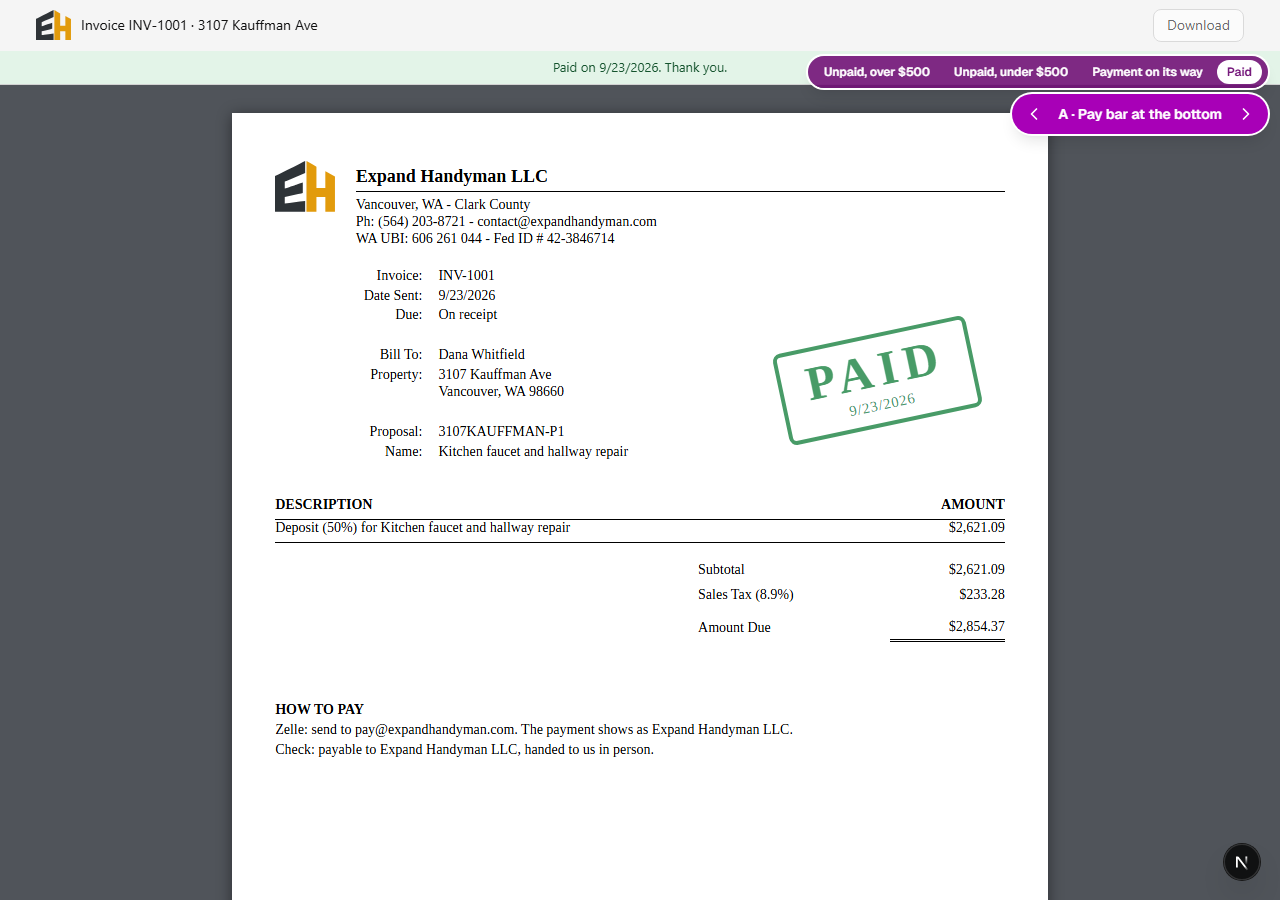
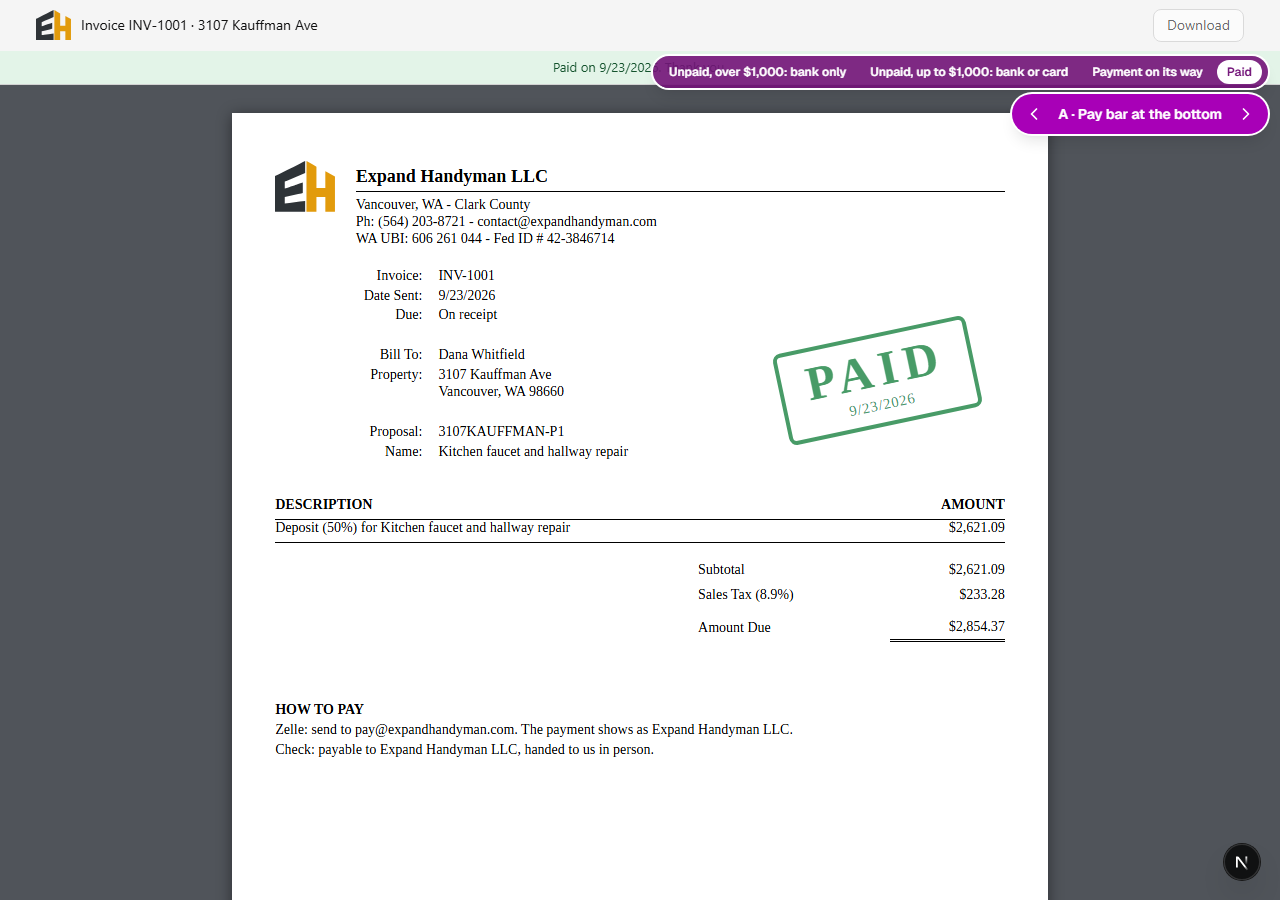
Drop the card fee from the Pay now sketches; card only up to $1,000 (#112)
The owner dropped the fee after the research (#111) while this was being
built: bank is always offered, card only when Amount Due is $1,000 or less,
no fee on either. The deposit invoice ($2,854.37) now shows bank only, with
one sentence saying why; the gutter invoice ($800.42) shows both ways. The
stand-in checkout loses its fee line.

Changed region(s): [[0.5, 0.0622, 0.8438, 0.1244]]

diff --git a/components/prototype-pay-now/link-prototype.tsx b/components/prototype-pay-now/link-prototype.tsx
@@ -178,17 +178,13 @@ function onItsWay(amount: string): string {
   return `Your bank payment of ${amount} is on its way. Banks take up to 4 business days to confirm it, and this invoice will read Paid once they do.`;
 }
 
-function feeSentence(choices: PayChoice[]): string {
-  const card = choices[1];
-  return card.feeCents > 0
-    ? `Card adds a 3% fee, ${formatCentsExact(card.feeCents)}, on invoices over $500. Bank, Zelle and check are free.`
-    : "No fee either way under $500. Zelle and check work too.";
-}
-
-const OtherWays = "Zelle and check work too: see How to pay on the invoice.";
-
-function cardLabel(card: PayChoice): string {
-  return card.feeCents > 0 ? `Pay by card, ${formatCentsExact(card.chargeCents)}` : "Pay by card";
+// The line beside the choices: no fee when both are offered, and why there
+// is no card button when there is not. Whether the link should explain the
+// missing button at all is for the owner to say.
+function waysSentence(choices: PayChoice[]): string {
+  return choices.length === 2
+    ? "No fee either way. Zelle and check work too: see How to pay on the invoice."
+    : "Invoices over $1,000 are paid by bank, or by Zelle or check as How to pay says on the invoice.";
 }
 
 // ── A: the pay bar ───────────────────────────────────────────────────────
@@ -218,15 +214,17 @@ function PayBar({
     );
   return (
     <div className="paper-bar">
-      <p className="paper-bar-note">{feeSentence(choices)}</p>
+      <p className="paper-bar-note">{waysSentence(choices)}</p>
       <div className="paper-bar-row">
         <span className="paper-bar-sum">
           <strong>{amount}</strong> · due on receipt
         </span>
         <span className="paper-grow" />
-        <button type="button" className="paper-btn paper-btn-quiet" onClick={() => onPay(card)}>
-          {cardLabel(card)}
-        </button>
+        {card ? (
+          <button type="button" className="paper-btn paper-btn-quiet" onClick={() => onPay(card)}>
+            Pay by card
+          </button>
+        ) : null}
         <button type="button" className="paper-btn paper-btn-primary" onClick={() => onPay(bank)}>
           Pay by bank
         </button>
@@ -258,7 +256,7 @@ function PayCard({
     <section className="pn-card">
       <h2 className="pn-card-title">Pay {amount} online</h2>
       <ChoiceRows choices={choices} onPay={onPay} />
-      <p className="pn-card-text">{OtherWays}</p>
+      <p className="pn-card-text">{waysSentence(choices)}</p>
     </section>
   );
 }
@@ -288,7 +286,7 @@ function PaySheet({
             </button>
           </div>
           <ChoiceRows choices={choices} onPay={onPay} />
-          <p className="pn-card-text">{OtherWays}</p>
+          <p className="pn-card-text">{waysSentence(choices)}</p>
         </div>
       </div>
     </div>
@@ -308,27 +306,24 @@ function ChoiceRows({
     <div className="pn-choices">
       <button type="button" className="pn-choice" onClick={() => onPay(bank)}>
         <span className="pn-choice-name">Pay by bank</span>
-        <span className="pn-choice-note">Free. From your checking account, through Stripe.</span>
+        <span className="pn-choice-note">From your checking account, through Stripe.</span>
         <span className="pn-choice-amount">{formatCentsExact(bank.chargeCents)}</span>
       </button>
-      <button type="button" className="pn-choice" onClick={() => onPay(card)}>
-        <span className="pn-choice-name">Pay by card</span>
-        <span className="pn-choice-note">
-          {card.feeCents > 0
-            ? `Includes a ${formatCentsExact(card.feeCents)} card fee: 3% on invoices over $500.`
-            : "Free under $500."}
-        </span>
-        <span className="pn-choice-amount">{formatCentsExact(card.chargeCents)}</span>
-      </button>
+      {card ? (
+        <button type="button" className="pn-choice" onClick={() => onPay(card)}>
+          <span className="pn-choice-name">Pay by card</span>
+          <span className="pn-choice-note">Credit or debit, on Stripe&rsquo;s page.</span>
+          <span className="pn-choice-amount">{formatCentsExact(card.chargeCents)}</span>
+        </button>
+      ) : null}
     </div>
   );
 }
 
 // ── A stand-in for Stripe's checkout page ────────────────────────────────
 // What the customer would see after pressing a way to pay: Stripe's own
-// page, with the invoice and, by card over $500, the card fee as a line of
-// its own. Nothing here is Stripe's; it is a sketch, so the loop can be
-// walked end to end.
+// page, with the invoice as its one line. Nothing here is Stripe's; it is a
+// sketch, so the loop can be walked end to end.
 function FakeCheckout({
   invoiceNumber,
   amountDueCents,
@@ -352,12 +347,6 @@ function FakeCheckout({
         <dl className="pn-checkout-lines">
           <dt>Invoice {invoiceNumber}</dt>
           <dd>{formatCentsExact(amountDueCents)}</dd>
-          {choice.feeCents > 0 ? (
-            <>
-              <dt>Card fee (3%)</dt>
-              <dd>{formatCentsExact(choice.feeCents)}</dd>
-            </>
-          ) : null}
           <dt className="pn-checkout-total">Total due</dt>
           <dd className="pn-checkout-total">{charge}</dd>
         </dl>

diff --git a/components/prototype-pay-now/fixtures.ts b/components/prototype-pay-now/fixtures.ts
@@ -1,8 +1,8 @@
 // PROTOTYPE (#112): throwaway. Dummy invoices for the invoice link and the
 // panel, and the signed proposal the deposit invoice came from. Nothing here
-// is read from Convex. The money is arranged so the deposit invoice comes to
-// the ticket's own example: Amount Due $2,854.37, so paying by card is
-// $2,940.00 including a $85.63 card fee.
+// is read from Convex. The deposit invoice comes to $2,854.37, over the
+// $1,000 line above which card is not offered; the gutter invoice sits under
+// it, so both ways show.
 
 import { proposalTerms, WashingtonNoticeToCustomer } from "@/lib/expand-business";
 import { invoiceMoney, type InvoiceLine, type InvoiceMoney } from "@/lib/invoice-money";
@@ -13,28 +13,18 @@ import { fingerprintOf, SigningConsent } from "@/lib/proposal-signing";
 export const TaxRate = 0.089;
 export const ZelleEmail = "pay@expandhandyman.com";
 
-// ── The card fee, as the map settled it ──────────────────────────────────
-// Three percent of Amount Due, only when Amount Due is over $500.
-export const CardFeeFrom = 50_000;
-export const CardFeeRate = 0.03;
+// ── The ways to pay online, as the map settled them on 2026-09-23 ────────
+// Bank is always offered; card only when Amount Due is $1,000 or less. No
+// fee on either: the card fee was dropped after the research (#111).
+export const CardUpToCents = 100_000;
 
-export function cardFeeCents(amountDueCents: number): number {
-  return amountDueCents > CardFeeFrom ? Math.round(amountDueCents * CardFeeRate) : 0;
-}
-
-// The two ways to pay online, and what each comes to for this invoice.
-export type PayChoice = {
-  method: "bank" | "card";
-  chargeCents: number;
-  feeCents: number;
-};
+export type PayChoice = { method: "bank" | "card"; chargeCents: number };
 
 export function payChoices(amountDueCents: number): PayChoice[] {
-  const fee = cardFeeCents(amountDueCents);
-  return [
-    { method: "bank", chargeCents: amountDueCents, feeCents: 0 },
-    { method: "card", chargeCents: amountDueCents + fee, feeCents: fee },
-  ];
+  const bank: PayChoice = { method: "bank", chargeCents: amountDueCents };
+  return amountDueCents <= CardUpToCents
+    ? [bank, { method: "card", chargeCents: amountDueCents }]
+    : [bank];
 }
 
 // ── The day on the panel ─────────────────────────────────────────────────
@@ -48,8 +38,8 @@ export function shortDay(day: string): string {
 // ── Readings of the invoice link ─────────────────────────────────────────
 export type Reading = "unpaid" | "small" | "onway" | "paid";
 export const Readings = [
-  { key: "unpaid", name: "Unpaid, over $500" },
-  { key: "small", name: "Unpaid, under $500" },
+  { key: "unpaid", name: "Unpaid, over $1,000: bank only" },
+  { key: "small", name: "Unpaid, up to $1,000: bank or card" },
   { key: "onway", name: "Payment on its way" },
   { key: "paid", name: "Paid" },
 ] as const satisfies readonly { key: Reading; name: string }[];
@@ -65,6 +55,7 @@ const depositLines: InvoiceLine[] = [
 ];
 const gutterLines: InvoiceLine[] = [
   { description: "Clean gutters and downspouts, front and back", cents: 32_500 },
+  { description: "Replace two downspout elbows and re-seat the brackets", cents: 41_000 },
 ];
 
 export function linkInvoice(reading: Reading): PaperInvoice {

diff --git a/docs/prototypes/pay-now/README.md b/docs/prototypes/pay-now/README.md
@@ -4,30 +4,35 @@ Throwaway. Branch `prototype/pay-now`. Run `npm run dev` and open `/prototype/pa
 Nothing here saves; every figure is made up. The purple pills at the top right flip
 variants (arrow keys too) and, on the invoice link, the reading of the invoice.
 
+The rule sketched, as the map settled it on 2026-09-23 after the research (#111): bank
+is always offered, card only when Amount Due is $1,000 or less, no fee on either.
+
 ## The invoice link, `/prototype/pay-now/link`
 
 Three places Pay now could live, `?variant=A|B|C`, on the real paper screen with the
 real invoice paper:
 
 - **A Pay bar at the bottom**: a bar pinned to the bottom like the sign bar. Amount Due
-  on the left, "Pay by card, $2,940.00" and "Pay by bank" on the right, one sentence
-  above the row about the card fee.
+  on the left, "Pay by card" (when offered) and "Pay by bank" on the right, one sentence
+  above the row.
 - **B Choices above the paper**: a white card between the top bar and the paper,
-  "Pay $2,854.37 online", with the two ways as rows: the way, what it costs, the figure.
+  "Pay $2,854.37 online", with each way as a row: the way, a line about it, the figure.
 - **C Pay button, then a sheet**: one "Pay $2,854.37" button in the top bar beside
-  Download. It opens a sheet from the bottom with the same two rows.
+  Download. It opens a sheet from the bottom with the same rows.
 
 Four readings, `?reading=`:
 
-- `unpaid`: the deposit invoice, $2,854.37, so card is $2,940.00 with a $85.63 fee.
-- `small`: a $353.93 invoice, where card is free too.
+- `unpaid`: the deposit invoice, $2,854.37, over $1,000, so bank only. The sentence
+  explains: "Invoices over $1,000 are paid by bank, or by Zelle or check as How to pay
+  says on the invoice." Whether to explain at all is the owner's call.
+- `small`: a $800.42 invoice, so bank or card, "No fee either way."
 - `onway`: a bank payment accepted but not confirmed. Pay now is gone. A says it in the
   bar, B in the card, C in the strip under the top bar.
 - `paid`: as today, PAID stamp and "Paid on 9/23/2026. Thank you."
 
 Pressing a way to pay opens a stand-in for Stripe's checkout page (`?show=bank|card`
-opens it directly), with the card fee as its own line. Paying there moves the page on,
-in memory: bank to "Payment on its way", card to PAID.
+opens it directly). Paying there moves the page on, in memory: bank to "Payment on its
+way", card to PAID.
 
 ## The signing link right after signing, `/prototype/pay-now/approved`
 
@@ -47,5 +52,6 @@ owner, a bank payment on its way, and one still unpaid. `?variant=A|B` for the b
   right.
 
 `/prototype/pay-now/panel-only` is the same without the shell, for headless screenshots.
+`/prototype/pay-now/phone?u=…` frames a sketch at a phone's width for the same reason.
 
 Screenshots in this folder, made by `shoot.sh`.
